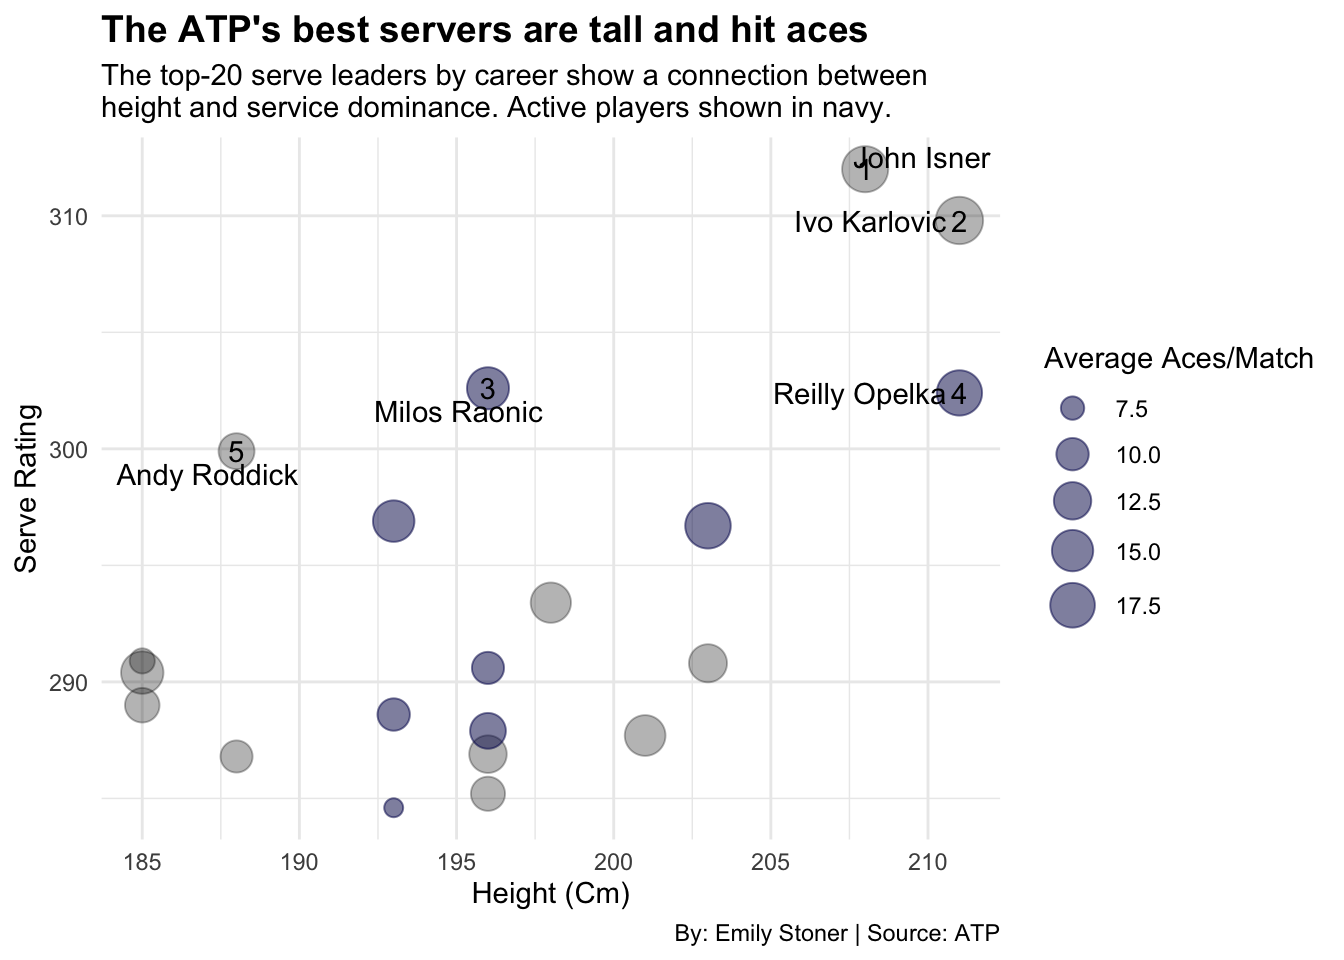
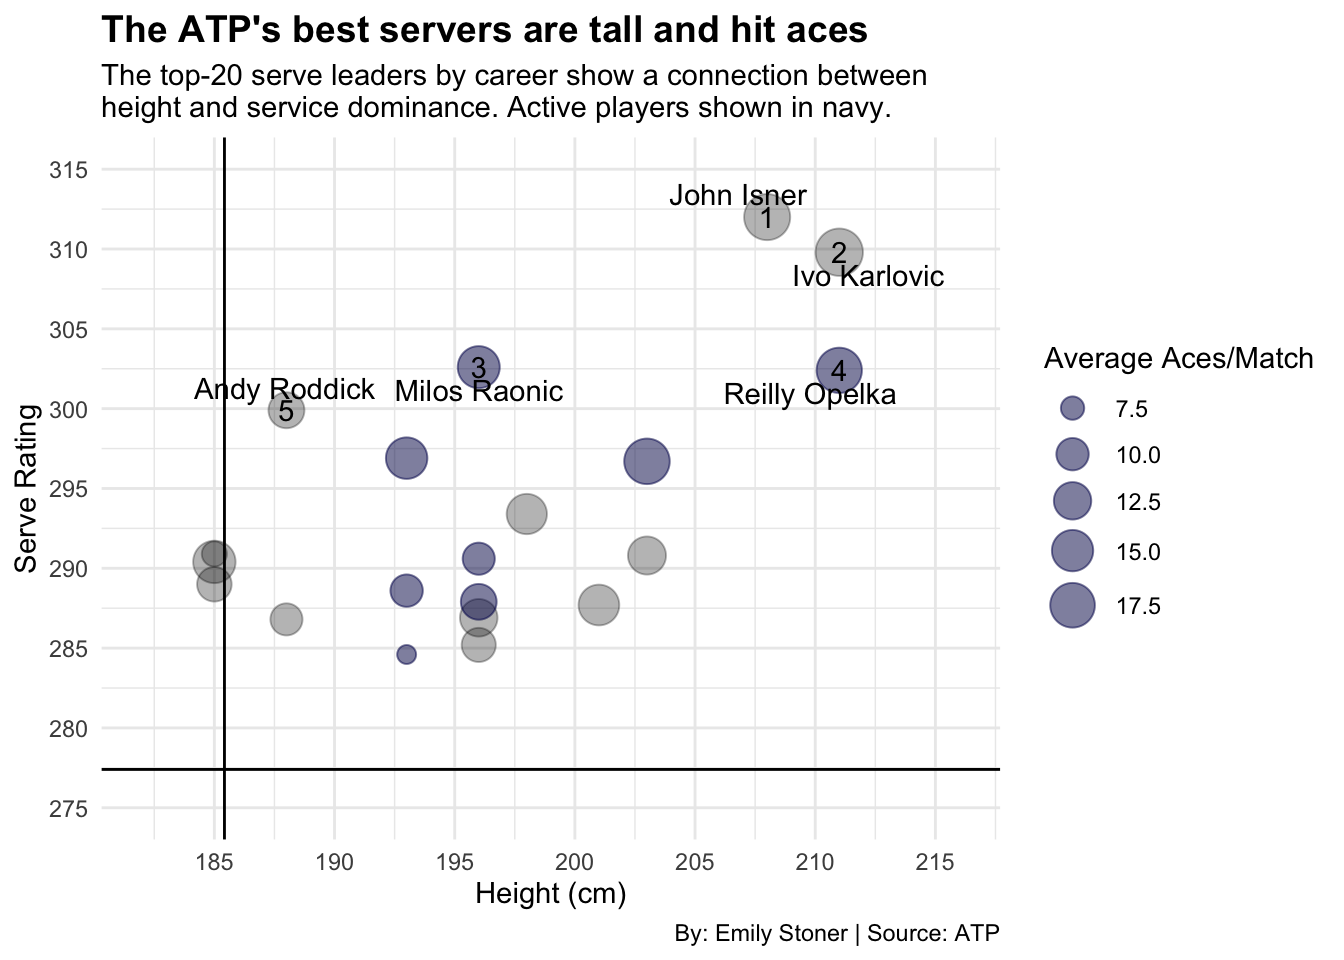
I think 1 is done, added next blurb

diff --git a/posts/External-Tennis-Factors-Impact-on-Success/index.html b/posts/External-Tennis-Factors-Impact-on-Success/index.html
@@ -191,7 +191,7 @@ pre > code.sourceCode > span > a:first-child::before { text-decoration: underlin
 
 <p>The top ATP players represent the best of the best in men’s tennis at any given time. However, aside from their technique, practice methods and coaching, there are other factors that impact these players success and strengths as well.</p>
 <p>On of the best American tennis players was John Isner. Isner also sits comfortably as one of the best service opponents, and happens to be 6’11”. As I started to look into the other names and stats of top servers, it seemed like height may have something to do with it.</p>
-<p>From a logical perspective, being taller would help with parts of the typical serving mechanism, although what about kids serving? Height doesn’t make or break serving ability. I wanted to look into these questions with a bubble chart comparing height and service results.</p>
+<p>From a logical perspective, being taller would help with parts of the typical serving mechanism, although what about kids serving? Height doesn’t make or break serving ability. I wanted to look into these questions with a bubble chart comparing height and service results. The reference lines display the ATP average for serve rating in the top-100 (277.4), and height (185.4 cm).</p>
 <div class="cell">
 <details class="code-fold">
 <summary>Code</summary>
@@ -217,35 +217,38 @@ pre > code.sourceCode > span > a:first-child::before { text-decoration: underlin
 <div class="cell">
 <details class="code-fold">
 <summary>Code</summary>
-<div class="sourceCode cell-code" id="cb3"><pre class="sourceCode r code-with-copy"><code class="sourceCode r"><span id="cb3-1"><a href="#cb3-1" aria-hidden="true" tabindex="-1"></a><span class="fu">ggplot</span>() <span class="sc">+</span></span>
-<span id="cb3-2"><a href="#cb3-2" aria-hidden="true" tabindex="-1"></a>  <span class="fu">geom_point</span>(</span>
-<span id="cb3-3"><a href="#cb3-3" aria-hidden="true" tabindex="-1"></a>    <span class="at">data =</span> Serve,</span>
-<span id="cb3-4"><a href="#cb3-4" aria-hidden="true" tabindex="-1"></a>    <span class="fu">aes</span>(</span>
-<span id="cb3-5"><a href="#cb3-5" aria-hidden="true" tabindex="-1"></a>      <span class="at">x =</span> HeightCM, </span>
-<span id="cb3-6"><a href="#cb3-6" aria-hidden="true" tabindex="-1"></a>      <span class="at">y =</span> ServeRate, </span>
-<span id="cb3-7"><a href="#cb3-7" aria-hidden="true" tabindex="-1"></a>      <span class="at">size =</span> AvgAcePMat</span>
-<span id="cb3-8"><a href="#cb3-8" aria-hidden="true" tabindex="-1"></a>    ),</span>
-<span id="cb3-9"><a href="#cb3-9" aria-hidden="true" tabindex="-1"></a>    <span class="at">alpha =</span> .<span class="dv">3</span></span>
-<span id="cb3-10"><a href="#cb3-10" aria-hidden="true" tabindex="-1"></a>  )  <span class="sc">+</span></span>
-<span id="cb3-11"><a href="#cb3-11" aria-hidden="true" tabindex="-1"></a>  <span class="fu">geom_point</span>(</span>
-<span id="cb3-12"><a href="#cb3-12" aria-hidden="true" tabindex="-1"></a>    <span class="at">data =</span> ServeActive, </span>
-<span id="cb3-13"><a href="#cb3-13" aria-hidden="true" tabindex="-1"></a>    <span class="fu">aes</span>(<span class="at">x =</span> HeightCM, <span class="at">y =</span> ServeRate, <span class="at">size =</span> AvgAcePMat),</span>
-<span id="cb3-14"><a href="#cb3-14" aria-hidden="true" tabindex="-1"></a>    <span class="at">alpha =</span> .<span class="dv">3</span>,</span>
-<span id="cb3-15"><a href="#cb3-15" aria-hidden="true" tabindex="-1"></a>    <span class="at">color =</span> <span class="st">"navy"</span>) <span class="sc">+</span> <span class="fu">geom_text</span>(</span>
-<span id="cb3-16"><a href="#cb3-16" aria-hidden="true" tabindex="-1"></a>    <span class="at">data =</span> ServeFive, <span class="fu">aes</span>(<span class="at">x =</span> HeightCM, </span>
-<span id="cb3-17"><a href="#cb3-17" aria-hidden="true" tabindex="-1"></a>      <span class="at">y =</span> ServeRate, <span class="at">label =</span> No)) <span class="sc">+</span> <span class="fu">geom_text_repel</span>(</span>
-<span id="cb3-18"><a href="#cb3-18" aria-hidden="true" tabindex="-1"></a>    <span class="at">data =</span> ServeFive, </span>
-<span id="cb3-19"><a href="#cb3-19" aria-hidden="true" tabindex="-1"></a>    <span class="fu">aes</span>(</span>
-<span id="cb3-20"><a href="#cb3-20" aria-hidden="true" tabindex="-1"></a>      <span class="at">x =</span> HeightCM, </span>
-<span id="cb3-21"><a href="#cb3-21" aria-hidden="true" tabindex="-1"></a>      <span class="at">y =</span> ServeRate, </span>
-<span id="cb3-22"><a href="#cb3-22" aria-hidden="true" tabindex="-1"></a>      <span class="at">label =</span> Player</span>
-<span id="cb3-23"><a href="#cb3-23" aria-hidden="true" tabindex="-1"></a>    )) <span class="sc">+</span> <span class="fu">scale_size</span>(<span class="at">range =</span> <span class="fu">c</span>(<span class="dv">3</span>, <span class="dv">8</span>), <span class="at">name =</span> <span class="st">"Average Aces/Match"</span>) <span class="sc">+</span> <span class="fu">labs</span>(</span>
-<span id="cb3-24"><a href="#cb3-24" aria-hidden="true" tabindex="-1"></a>    <span class="at">x =</span> <span class="st">"Height (Cm)"</span>, <span class="at">y =</span> <span class="st">"Serve Rating"</span>,</span>
-<span id="cb3-25"><a href="#cb3-25" aria-hidden="true" tabindex="-1"></a>    <span class="at">title =</span> <span class="st">"The ATP's best servers are tall and hit aces"</span>,</span>
-<span id="cb3-26"><a href="#cb3-26" aria-hidden="true" tabindex="-1"></a>    <span class="at">subtitle =</span> <span class="st">"The top-20 serve leaders by career show a connection between</span><span class="sc">\n</span><span class="st">height and service dominance. Active players shown in navy."</span>, <span class="at">caption =</span> <span class="st">"By: Emily Stoner | Source: ATP"</span></span>
-<span id="cb3-27"><a href="#cb3-27" aria-hidden="true" tabindex="-1"></a>  ) <span class="sc">+</span> <span class="fu">theme_minimal</span>() <span class="sc">+</span></span>
-<span id="cb3-28"><a href="#cb3-28" aria-hidden="true" tabindex="-1"></a>    <span class="fu">theme</span>(</span>
-<span id="cb3-29"><a href="#cb3-29" aria-hidden="true" tabindex="-1"></a>    <span class="at">plot.title =</span> <span class="fu">element_text</span>(<span class="at">size =</span> <span class="dv">14</span>, <span class="at">face =</span> <span class="st">"bold"</span>)) </span></code><button title="Copy to Clipboard" class="code-copy-button"><i class="bi"></i></button></pre></div>
+<div class="sourceCode cell-code" id="cb3"><pre class="sourceCode r code-with-copy"><code class="sourceCode r"><span id="cb3-1"><a href="#cb3-1" aria-hidden="true" tabindex="-1"></a><span class="fu">ggplot</span>() <span class="sc">+</span> <span class="fu">geom_vline</span>(<span class="at">xintercept =</span> <span class="fl">185.42</span>) <span class="sc">+</span></span>
+<span id="cb3-2"><a href="#cb3-2" aria-hidden="true" tabindex="-1"></a>  <span class="fu">geom_hline</span>(<span class="at">yintercept =</span> <span class="fl">277.4</span>) <span class="sc">+</span></span>
+<span id="cb3-3"><a href="#cb3-3" aria-hidden="true" tabindex="-1"></a>  <span class="fu">geom_point</span>(</span>
+<span id="cb3-4"><a href="#cb3-4" aria-hidden="true" tabindex="-1"></a>    <span class="at">data =</span> Serve,</span>
+<span id="cb3-5"><a href="#cb3-5" aria-hidden="true" tabindex="-1"></a>    <span class="fu">aes</span>(</span>
+<span id="cb3-6"><a href="#cb3-6" aria-hidden="true" tabindex="-1"></a>      <span class="at">x =</span> HeightCM, </span>
+<span id="cb3-7"><a href="#cb3-7" aria-hidden="true" tabindex="-1"></a>      <span class="at">y =</span> ServeRate, </span>
+<span id="cb3-8"><a href="#cb3-8" aria-hidden="true" tabindex="-1"></a>      <span class="at">size =</span> AvgAcePMat</span>
+<span id="cb3-9"><a href="#cb3-9" aria-hidden="true" tabindex="-1"></a>    ),</span>
+<span id="cb3-10"><a href="#cb3-10" aria-hidden="true" tabindex="-1"></a>    <span class="at">alpha =</span> .<span class="dv">3</span></span>
+<span id="cb3-11"><a href="#cb3-11" aria-hidden="true" tabindex="-1"></a>  )  <span class="sc">+</span></span>
+<span id="cb3-12"><a href="#cb3-12" aria-hidden="true" tabindex="-1"></a>  <span class="fu">geom_point</span>(</span>
+<span id="cb3-13"><a href="#cb3-13" aria-hidden="true" tabindex="-1"></a>    <span class="at">data =</span> ServeActive, </span>
+<span id="cb3-14"><a href="#cb3-14" aria-hidden="true" tabindex="-1"></a>    <span class="fu">aes</span>(<span class="at">x =</span> HeightCM, <span class="at">y =</span> ServeRate, <span class="at">size =</span> AvgAcePMat),</span>
+<span id="cb3-15"><a href="#cb3-15" aria-hidden="true" tabindex="-1"></a>    <span class="at">alpha =</span> .<span class="dv">3</span>,</span>
+<span id="cb3-16"><a href="#cb3-16" aria-hidden="true" tabindex="-1"></a>    <span class="at">color =</span> <span class="st">"navy"</span>) <span class="sc">+</span> <span class="fu">geom_text</span>(</span>
+<span id="cb3-17"><a href="#cb3-17" aria-hidden="true" tabindex="-1"></a>    <span class="at">data =</span> ServeFive, <span class="fu">aes</span>(<span class="at">x =</span> HeightCM, </span>
+<span id="cb3-18"><a href="#cb3-18" aria-hidden="true" tabindex="-1"></a>      <span class="at">y =</span> ServeRate, <span class="at">label =</span> No)) <span class="sc">+</span> <span class="fu">geom_text_repel</span>(</span>
+<span id="cb3-19"><a href="#cb3-19" aria-hidden="true" tabindex="-1"></a>    <span class="at">data =</span> ServeFive, </span>
+<span id="cb3-20"><a href="#cb3-20" aria-hidden="true" tabindex="-1"></a>    <span class="fu">aes</span>(</span>
+<span id="cb3-21"><a href="#cb3-21" aria-hidden="true" tabindex="-1"></a>      <span class="at">x =</span> HeightCM, </span>
+<span id="cb3-22"><a href="#cb3-22" aria-hidden="true" tabindex="-1"></a>      <span class="at">y =</span> ServeRate, </span>
+<span id="cb3-23"><a href="#cb3-23" aria-hidden="true" tabindex="-1"></a>      <span class="at">label =</span> Player</span>
+<span id="cb3-24"><a href="#cb3-24" aria-hidden="true" tabindex="-1"></a>    )) <span class="sc">+</span> <span class="fu">scale_x_continuous</span>(<span class="at">breaks =</span> <span class="fu">c</span>(<span class="dv">185</span>, <span class="dv">190</span>, <span class="dv">195</span>, <span class="dv">200</span>, <span class="dv">205</span>, <span class="dv">210</span>, <span class="dv">215</span>), <span class="at">limits =</span> <span class="fu">c</span>(<span class="dv">182</span>, <span class="dv">216</span>)) <span class="sc">+</span></span>
+<span id="cb3-25"><a href="#cb3-25" aria-hidden="true" tabindex="-1"></a>  <span class="fu">scale_y_continuous</span>(<span class="at">breaks =</span> <span class="fu">c</span>(<span class="dv">275</span>, <span class="dv">280</span>, <span class="dv">285</span>, <span class="dv">290</span>, <span class="dv">295</span>, <span class="dv">300</span>, <span class="dv">305</span>, <span class="dv">310</span>, <span class="dv">315</span>), <span class="at">limits =</span> <span class="fu">c</span>(<span class="dv">275</span>, <span class="dv">315</span>)) <span class="sc">+</span></span>
+<span id="cb3-26"><a href="#cb3-26" aria-hidden="true" tabindex="-1"></a>  <span class="fu">scale_size</span>(<span class="at">range =</span> <span class="fu">c</span>(<span class="dv">3</span>, <span class="dv">8</span>), <span class="at">name =</span> <span class="st">"Average Aces/Match"</span>) <span class="sc">+</span> <span class="fu">labs</span>(</span>
+<span id="cb3-27"><a href="#cb3-27" aria-hidden="true" tabindex="-1"></a>    <span class="at">x =</span> <span class="st">"Height (cm)"</span>, <span class="at">y =</span> <span class="st">"Serve Rating"</span>,</span>
+<span id="cb3-28"><a href="#cb3-28" aria-hidden="true" tabindex="-1"></a>    <span class="at">title =</span> <span class="st">"The ATP's best servers are tall and hit aces"</span>,</span>
+<span id="cb3-29"><a href="#cb3-29" aria-hidden="true" tabindex="-1"></a>    <span class="at">subtitle =</span> <span class="st">"The top-20 serve leaders by career show a connection between</span><span class="sc">\n</span><span class="st">height and service dominance. Active players shown in navy."</span>, <span class="at">caption =</span> <span class="st">"By: Emily Stoner | Source: ATP"</span></span>
+<span id="cb3-30"><a href="#cb3-30" aria-hidden="true" tabindex="-1"></a>  ) <span class="sc">+</span> <span class="fu">theme_minimal</span>() <span class="sc">+</span></span>
+<span id="cb3-31"><a href="#cb3-31" aria-hidden="true" tabindex="-1"></a>    <span class="fu">theme</span>(</span>
+<span id="cb3-32"><a href="#cb3-32" aria-hidden="true" tabindex="-1"></a>    <span class="at">plot.title =</span> <span class="fu">element_text</span>(<span class="at">size =</span> <span class="dv">14</span>, <span class="at">face =</span> <span class="st">"bold"</span>)) </span></code><button title="Copy to Clipboard" class="code-copy-button"><i class="bi"></i></button></pre></div>
 </details>
 <div class="cell-output-display">
 <div>
@@ -262,6 +265,7 @@ pre > code.sourceCode > span > a:first-child::before { text-decoration: underlin
 <span id="cb4-2"><a href="#cb4-2" aria-hidden="true" tabindex="-1"></a><span class="fu">ggsave</span>(<span class="st">"image.png"</span>)</span></code><button title="Copy to Clipboard" class="code-copy-button"><i class="bi"></i></button></pre></div>
 </details>
 </div>
+<p>These top-20 servers are tall. All but three are above average in height, not to mention three of the top five are over 20 cm taller than the average. Serving objective is very involved with strategy and style, so the number of aces hit in a match isn’t entirely indicative of service dominance, however, it just so happens that of the top-20 in serve rating, over half (11) also appear in the top-20 for aces per match. You can be a great server without a high ace ability, but if you’re hitting aces, you’re probably a decent server.</p>
 
 
 

diff --git a/index.html b/index.html
@@ -205,7 +205,7 @@ window.Quarto = {
 
 <div class="quarto-listing quarto-listing-container-default" id="listing-listing">
 <div class="list quarto-listing-default">
-<div class="quarto-post image-right" data-index="0" data-categories="atp,spmc350" data-listing-date-sort="1733637600000" data-listing-file-modified-sort="1733794585829" data-listing-date-modified-sort="NaN" data-listing-reading-time-sort="2" data-listing-word-count-sort="393">
+<div class="quarto-post image-right" data-index="0" data-categories="atp,spmc350" data-listing-date-sort="1733637600000" data-listing-file-modified-sort="1733796761719" data-listing-date-modified-sort="NaN" data-listing-reading-time-sort="3" data-listing-word-count-sort="550">
 <div class="thumbnail">
 <p><a href="./posts/External-Tennis-Factors-Impact-on-Success/index.html" class="no-external"></a></p><a href="./posts/External-Tennis-Factors-Impact-on-Success/index.html" class="no-external">
 <p class="card-img-top"><img src="posts/External-Tennis-Factors-Impact-on-Success/index_files/figure-html/unnamed-chunk-3-1.png"  class="thumbnail-image card-img"/></p>
